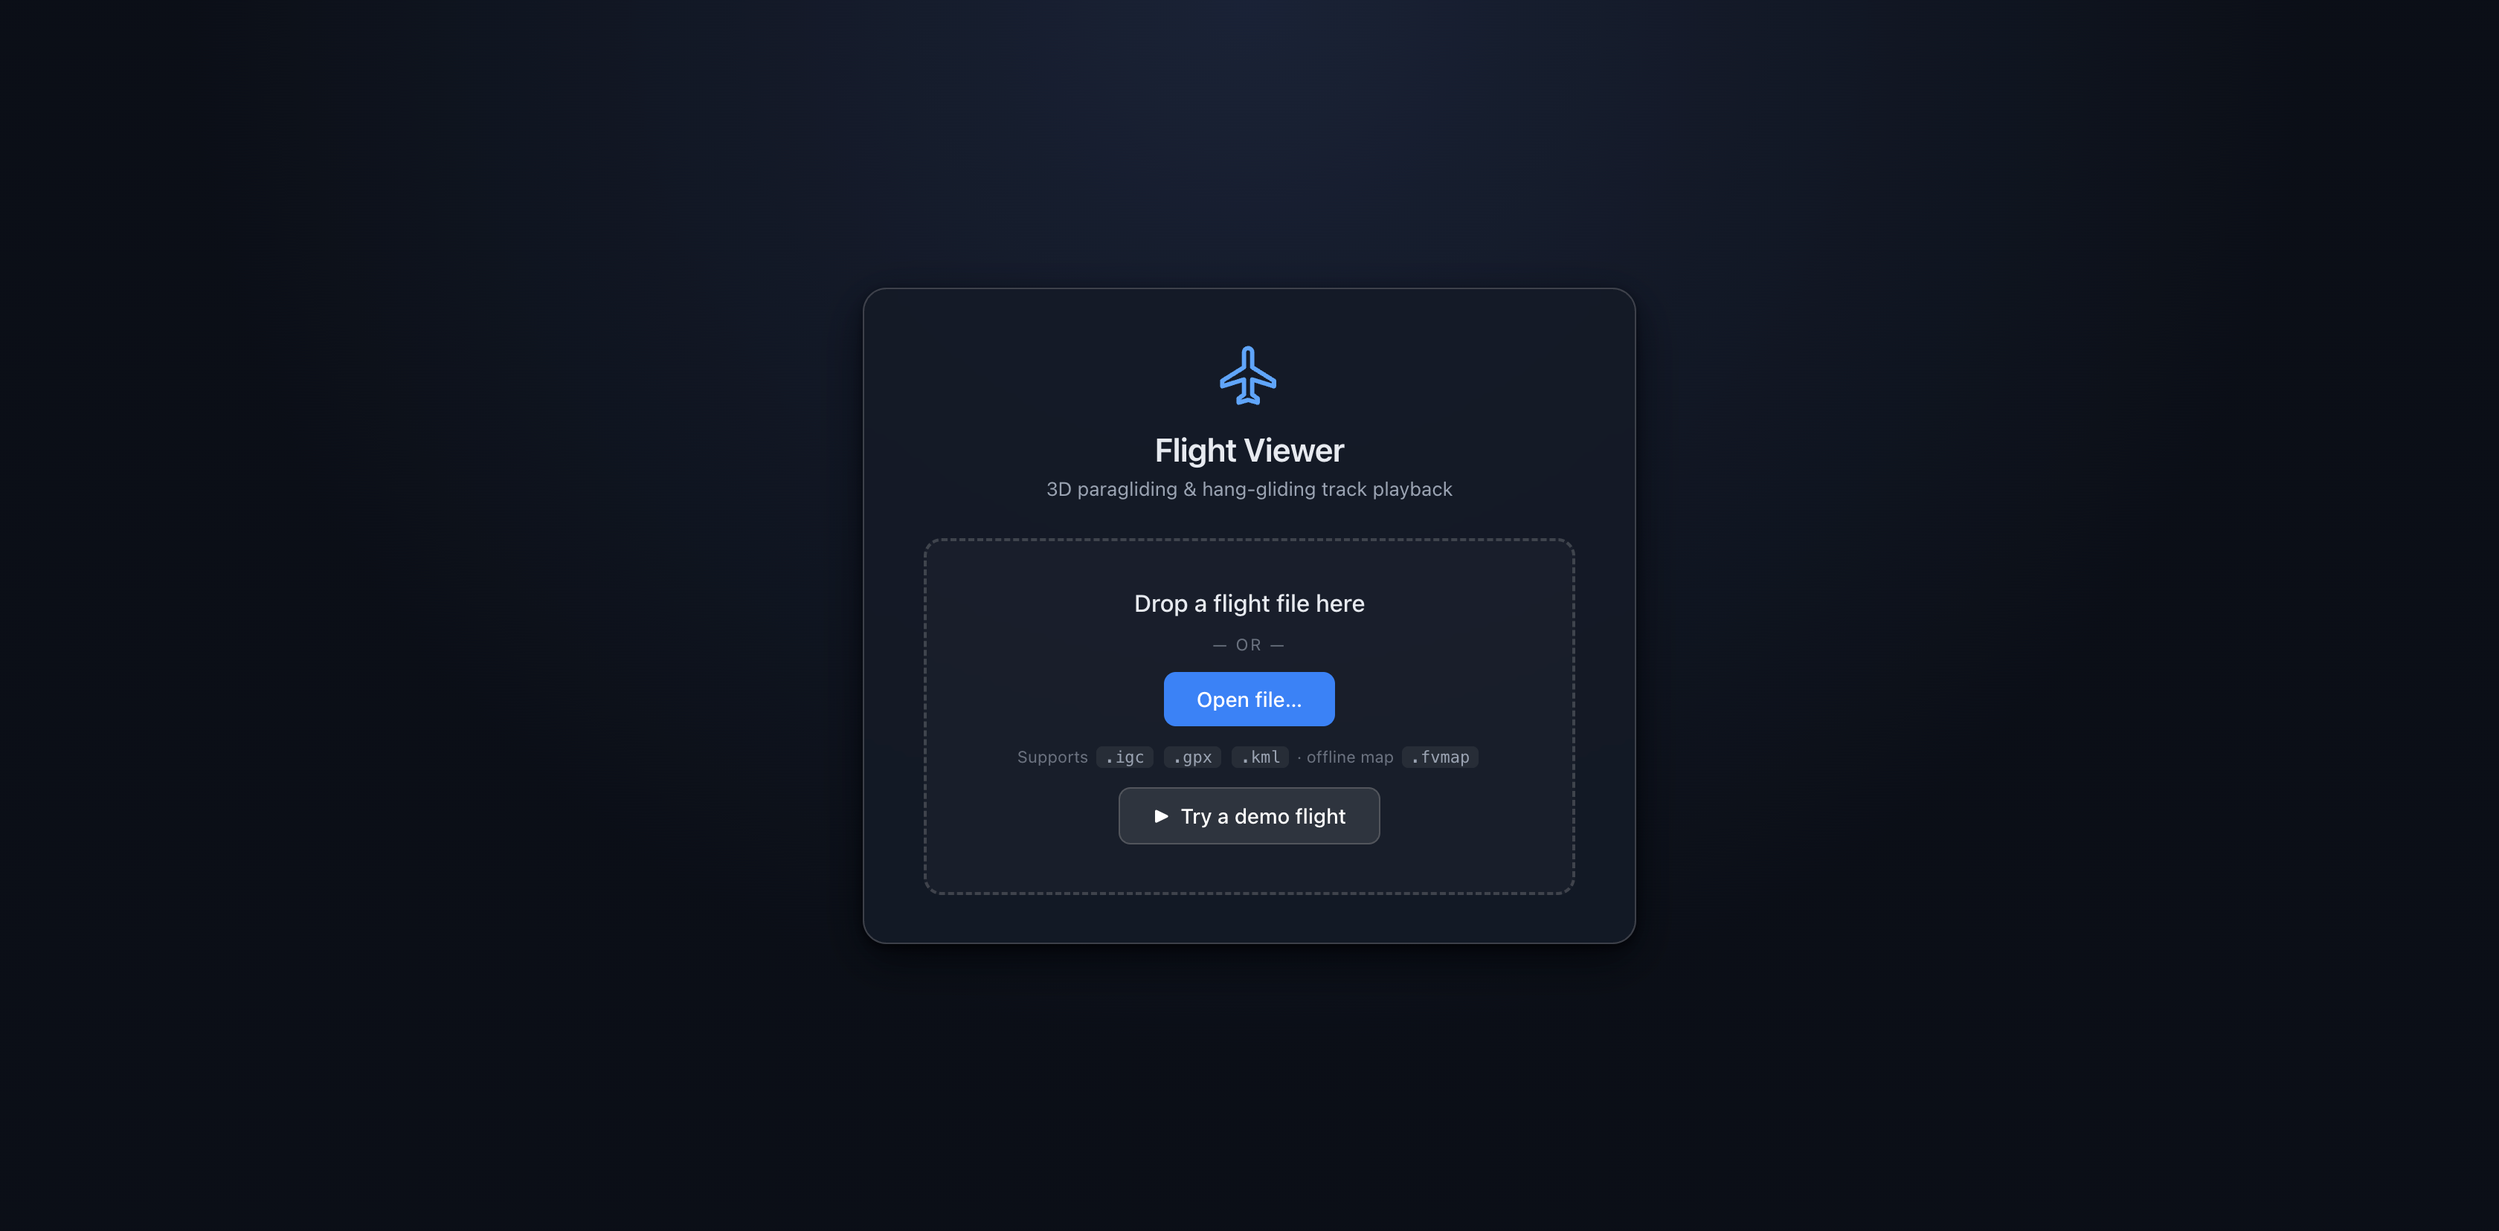
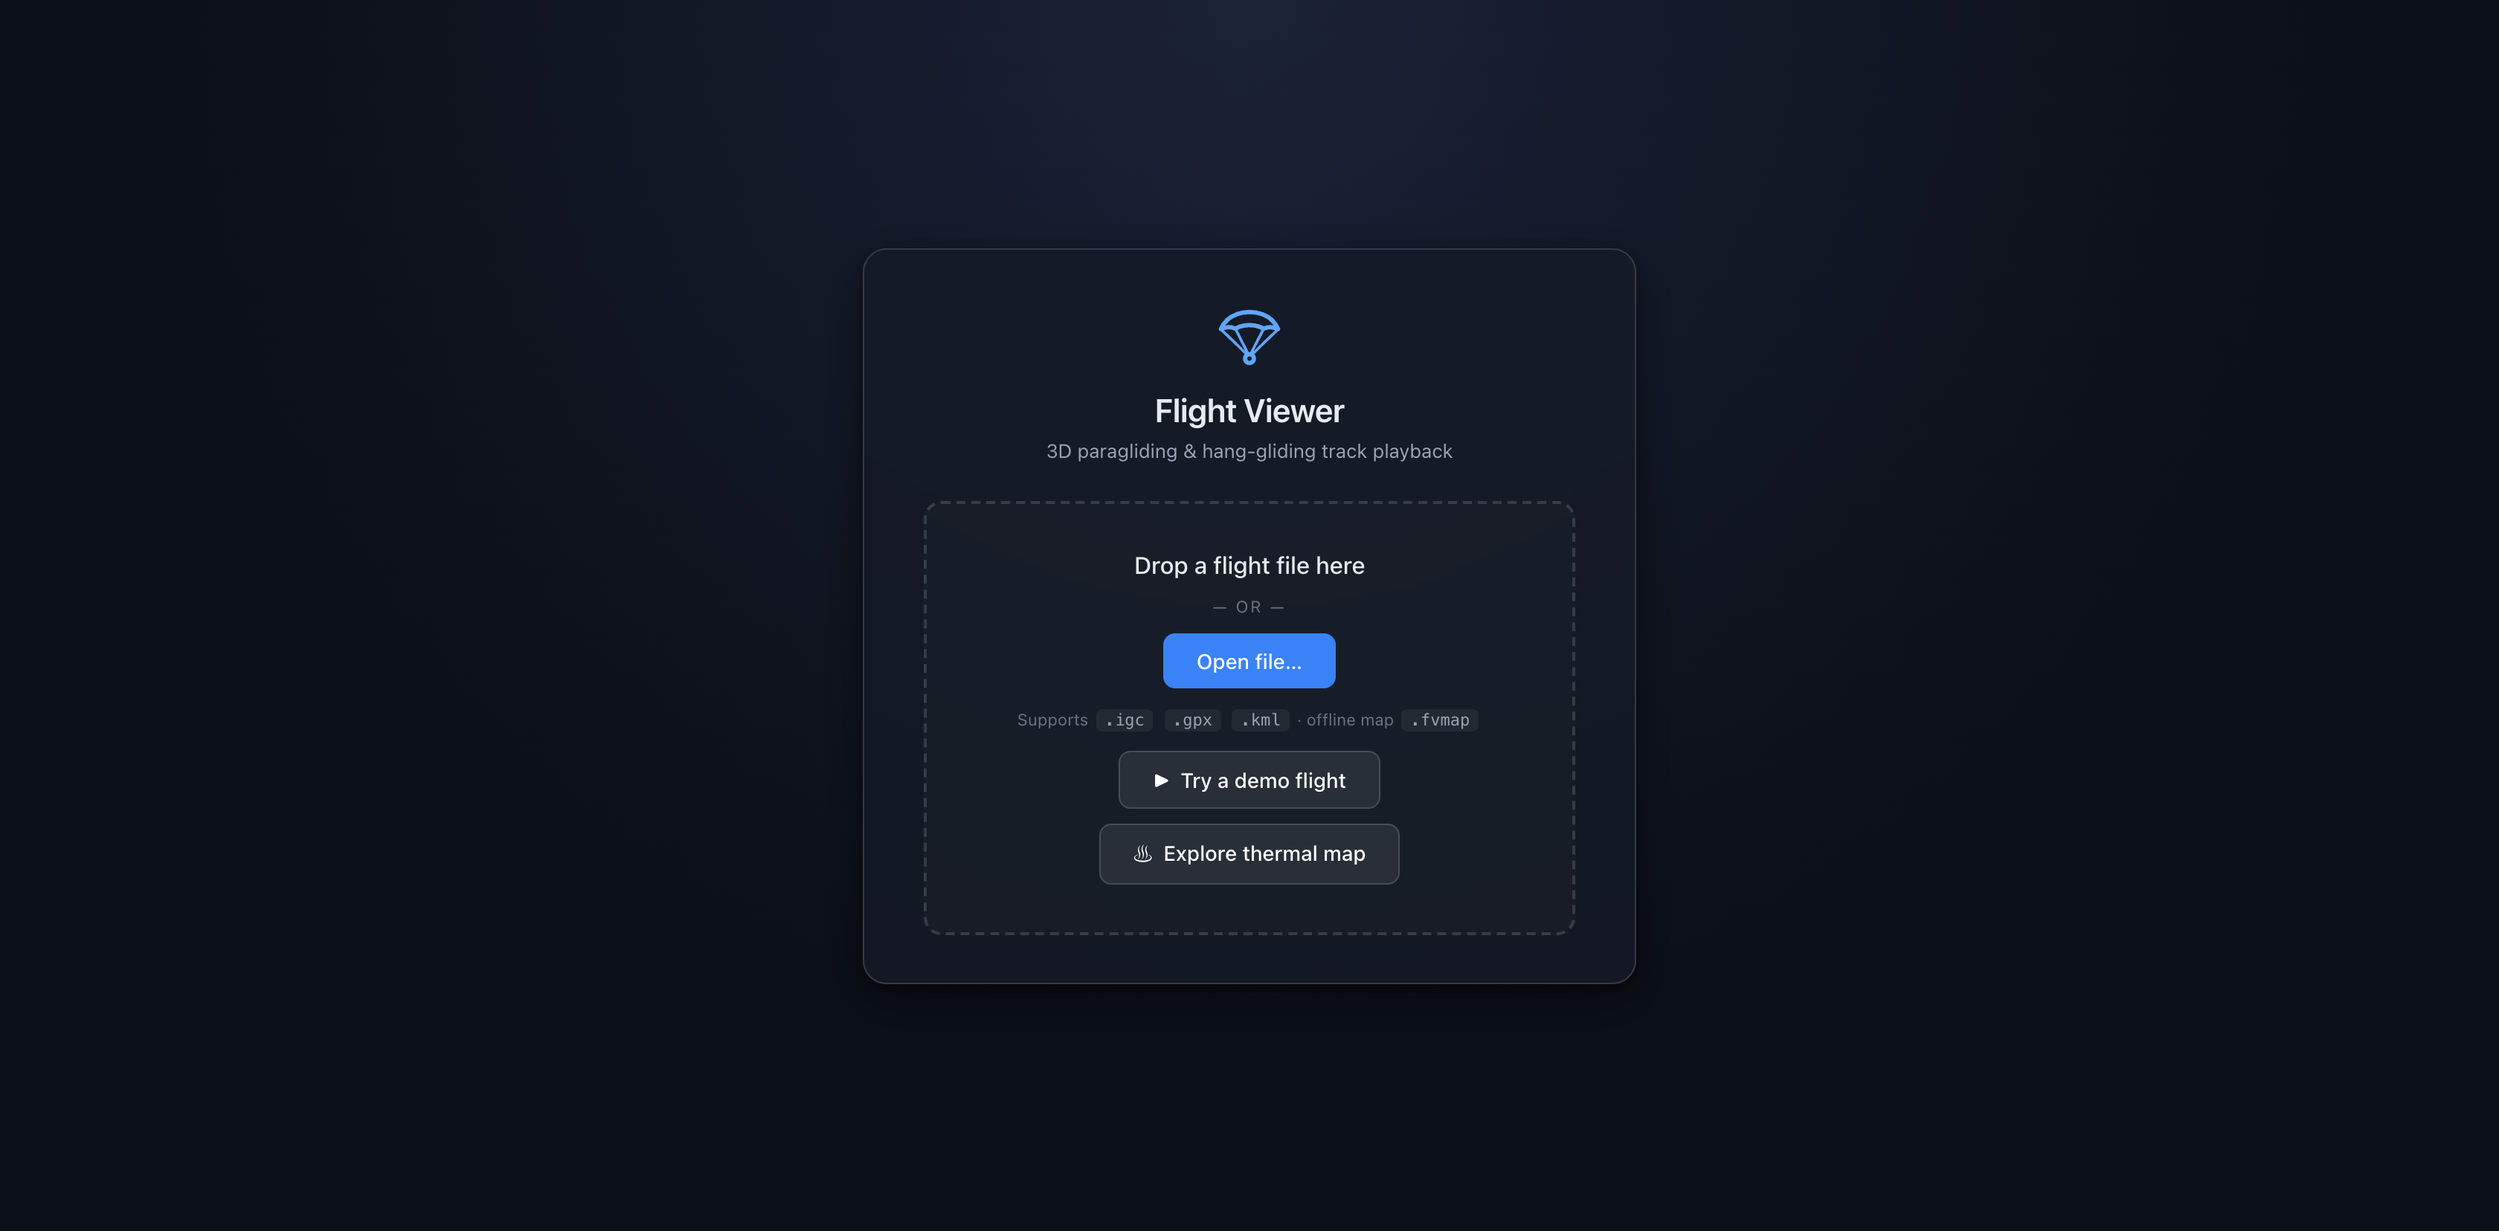
Baro vario by default, chart select button, legend on the right, new screenshots
- Vario source is its own setting (Basics), defaulting to baro -- the
  standard for a vario; GPS selectable, baro-less logs fall back as before.
  It no longer follows the altitude source.
- Chart header gets a select button that arms one range drag (mouse or
  touch); Shift+drag still works and plain drag keeps seeking.
- The colour legend moves to the right edge under the map controls; on the
  left it was covered by the stats panel.
- README screenshots retaken with the current UI.

diff --git a/flight_viewer.html b/flight_viewer.html
@@ -235,11 +235,14 @@
 
   /* Live HUD -- default top-right, clear of the map-control column
      (~48px wide) so nav/fullscreen/follow buttons stay reachable. */
-  /* Vario colour key on the left edge: purely informative, never
-     interactive, so it can sit over the map without blocking drags. */
+  /* Vario colour key on the right edge, in the free strip under the map
+     controls (the left edge belongs to the stats panel, which covered
+     it). Purely informative, never interactive, so it can sit over the
+     map without blocking drags. */
   #varioLegend {
-    position: absolute; left: 12px; top: 50%; transform: translateY(-50%);
-    width: 66px; height: 168px; z-index: 12; pointer-events: none;
+    position: absolute; right: 6px; top: max(50%, 392px);
+    transform: translateY(-50%);
+    width: 54px; height: 168px; z-index: 12; pointer-events: none;
   }
   #varioLegend.hidden, body.noTrack #varioLegend { display: none; }
   @media (max-height: 460px) { #varioLegend { display: none; } }
@@ -428,6 +431,8 @@
     font-size: 11px; color: var(--fg); font-variant-numeric: tabular-nums;
   }
   #chartSel.hidden { display: none; }
+  #chartSelBtn.active { background: var(--accent); color: #fff; }
+  #chart.selMode { cursor: col-resize; }
   #chartSelText { flex: 1; min-width: 0; }
   #chartSel .btn-small { padding: 2px 8px; font-size: 10px; }
   #chartCursor {
@@ -1222,6 +1227,15 @@
           </div>
         </div>
         <div class="row">
+          <span class="lbl" title="Which altitude the climb / sink rate is computed from (HUD vario, track colours, chart, thermal stats). Baro is the standard for a vario: a pressure sensor resolves a few centimetres and reacts at once, while GPS altitude wanders by several metres. A log without pressure data uses GPS automatically. Independent of the Altitude source above, which only sets the height the track is drawn at.">Vario source</span>
+          <div class="ctl">
+            <div class="toggle" id="varioSrc">
+              <button data-v="baro">Baro</button>
+              <button data-v="gps">GPS</button>
+            </div>
+          </div>
+        </div>
+        <div class="row">
           <span class="lbl">Basemap</span>
           <div class="ctl">
             <div class="toggle" id="base">
@@ -1544,7 +1558,7 @@
           </div>
         </div>
         <div class="row">
-          <span class="lbl" title="Small colour key on the left edge of the map showing which climb / sink rate each track colour stands for. Included in recordings.">Colour legend</span>
+          <span class="lbl" title="Small colour key on the right edge of the map showing which climb / sink rate each track colour stands for. Included in recordings.">Colour legend</span>
           <div class="ctl"><input type="checkbox" id="legendCb" checked></div>
         </div>
         <div class="row">
@@ -1829,6 +1843,9 @@
           <button data-v="vario">Vario</button>
           <button data-v="speed">Speed</button>
         </div>
+        <button id="chartSelBtn" class="iconbtn" title="Select a range: click, then drag across the chart (or Shift + drag any time)" aria-label="Select a range on the chart" aria-pressed="false">
+          <svg viewBox="0 0 24 24" width="15" height="15" fill="none" stroke="currentColor" stroke-width="2" stroke-linecap="round" stroke-linejoin="round" style="display:block"><path d="M5 4v16M19 4v16"/><path d="M9 12h6M9 12l2-2M9 12l2 2M15 12l-2-2M15 12l-2 2"/></svg>
+        </button>
         <button id="closeChart" class="iconbtn" title="Close chart" aria-label="Close chart">&times;</button>
       </div>
       <div id="chart"></div>
@@ -1983,7 +2000,7 @@
       <tr><td><kbd>[</kbd> / <kbd>]</kbd></td><td>Set A-B loop start / end</td></tr>
       <tr><td><kbd>\</kbd></td><td>Clear A-B loop</td></tr>
       <tr><td><kbd>Wheel</kbd></td><td>On the chart: zoom time axis (dbl-click resets)</td></tr>
-      <tr><td><kbd>Shift</kbd> + drag</td><td>On the chart: select a range (stats, loop, zoom)</td></tr>
+      <tr><td><kbd>Shift</kbd> + drag</td><td>On the chart: select a range (stats, loop, zoom) &mdash; or use the chart's select button, also on touch</td></tr>
       <tr><td><kbd>S</kbd></td><td>Settings panel</td></tr>
       <tr><td><kbd>I</kbd></td><td>Flight statistics</td></tr>
       <tr><td><kbd>L</kbd></td><td>Live HUD</td></tr>
@@ -2392,12 +2409,15 @@ function deriveSpeeds(arr) {
   }
   applyVarioSource(arr);
 }
-// vz_ms always follows the selected altitude source, so the vario (HUD,
-// chart, track colours, thermal stats) describes the same altitude trace
-// that is drawn. It used to be baro-only: with the track drawn at GPS
-// altitude the two could disagree by up to 1 m/s on phone logs.
+// vz_ms comes from the barometric altitude by default -- what every vario
+// instrument and flight-analysis tool does: a pressure sensor resolves a
+// few centimetres with no lag, while GNSS altitude wanders by metres, so a
+// GPS-derived climb rate is noisier and reads false lift / sink. "Vario
+// source" in the settings can switch it to GPS; a log with no usable baro
+// channel has already had it filled from GPS (deriveSpeeds), so the
+// default works there too.
 function applyVarioSource(arr) {
-  const g = state.altSrc === 'gps';
+  const g = state.varioSrc === 'gps';
   for (let i = 0; i < arr.length; i++) arr[i].vz_ms = g ? arr[i].vz_g : arr[i].vz_b;
 }
 
@@ -2958,7 +2978,7 @@ function parseFlightFile(text, filename) {
 // corrupt / stale blob can never wedge the app.
 const PREFS_STORAGE_KEY = 'fv_prefs_v1';
 const PERSIST_KEYS = [
-  'altSrc', 'base', 'mapLabels', 'units', 'colorMode', 'varioMaxUp', 'varioMaxDown', 'varioGlide', 'showLegend', 'lowAglM',
+  'altSrc', 'varioSrc', 'base', 'mapLabels', 'units', 'colorMode', 'varioMaxUp', 'varioMaxDown', 'varioGlide', 'showLegend', 'lowAglM',
   'exag', 'trackWidth', 'tube3d', 'smoothSubdiv', 'smoothTension',
   'kmlRateHz', 'spiralReconOn', 'spiralMode', 'spiralTurnsPerSec',
   'spiralThreshold', 'trailFadeSec', 'pilotShape', 'pilotSize', 'speed', 'autoSpeed',
@@ -3003,6 +3023,7 @@ let renderDirty = true;
 
 const rawState = {
   altSrc: 'gps',
+  varioSrc: 'baro',     // 'baro' | 'gps' -- altitude the vario is derived from
   base: 'sat',
   mapLabels: true,      // place-name labels (cities, peaks, lakes) on the map
   units: 'metric',
@@ -3288,7 +3309,7 @@ function updateLegend() {
   _legendSig = sig;
   cv.classList.toggle('hidden', !vis);
   if (!vis) return;
-  const W = 66, H = 168;
+  const W = 54, H = 168;
   cv.width = Math.round(W * dpr); cv.height = Math.round(H * dpr);
   const c = cv.getContext('2d');
   c.setTransform(dpr, 0, 0, dpr, 0, 0);
@@ -3302,7 +3323,7 @@ function updateLegend() {
   c.textAlign = 'center'; c.textBaseline = 'middle';
   c.fillText(U.vzLabel().toUpperCase(), W / 2, 11);
   const up = state.varioMaxUp, dn = state.varioMaxDown;
-  const top = 24, bot = H - 12, bx = 9, bw = 9;
+  const top = 24, bot = H - 12, bx = 7, bw = 8;
   const yOf = v => top + (up - v) / (up + dn) * (bot - top);
   for (let y = top; y < bot; y++) {
     const k = varioColor(up - (y - top + 0.5) / (bot - top) * (up + dn));
@@ -3328,7 +3349,7 @@ function updateLegend() {
     c.fillStyle = 'rgba(255,255,255,0.55)';
     c.fillRect(bx + bw, Math.round(y) - 0.5, 4, 1);
     c.fillStyle = '#e6e9ef';
-    c.fillText(t, bx + bw + 7, Math.min(H - 7, Math.max(top, y)));
+    c.fillText(t, bx + bw + 6, Math.min(H - 7, Math.max(top, y)));
   }
 }
 
@@ -7531,14 +7552,20 @@ function setupAppUi() {
   }
   initToggle('altSrc', 'altSrc', () => {
     pathDataCache = null; spiralCache = null;
-    // The vario follows the altitude source: re-derive it, then everything
-    // computed from it (thermal gains, stats, glides, timeline colours).
-    applyVarioSource(fixes);
-    for (const tr of cmpTracks) applyVarioSource(tr.fixes);
-    cmpRev++;
+    // Thermal gains, glides and the stats are measured on this altitude.
     analyzeFlight();
     buildProgressTicks();
     refreshChart(); autoAlignGround(); renderStatsPanel();
+  });
+  initToggle('varioSrc', 'varioSrc', () => {
+    // Re-derive the vario, then everything computed from it (track and
+    // timeline colours, max climb / sink, the vario chart).
+    applyVarioSource(fixes);
+    for (const tr of cmpTracks) applyVarioSource(tr.fixes);
+    pathDataCache = null; cmpRev++;
+    analyzeFlight();
+    buildProgressTicks();
+    refreshChart(); renderStatsPanel();
   });
   initToggle('units',  'units',  () => {
     refreshChart();
@@ -8516,7 +8543,7 @@ function setupAppUi() {
       localStorage.removeItem('fv_secs_v1');
     } catch (_) {}
     const toggleKeys = [
-      ['altSrc', 'altSrc'], ['base', 'base'], ['units', 'units'],
+      ['altSrc', 'altSrc'], ['varioSrc', 'varioSrc'], ['base', 'base'], ['units', 'units'],
       ['colorMode', 'colorMode'], ['pilotShape', 'pilotShape'],
       ['camStyle', 'camStyle'], ['chartMetric', 'chartMetric'],
       ['cmpAlign', 'cmpAlign'],
@@ -9340,11 +9367,38 @@ function setupAppUi() {
     drawChart(); syncChartCursor();
   };
   let chartSelDrag = null;     // anchor x (shifted ms) while shift-dragging
+  // Range-select mode: armed by the header button for ONE drag (mouse or
+  // touch), then it switches itself off -- so ordinary click / drag keeps
+  // meaning "seek" and nothing has to be remembered or undone.
+  let chartSelMode = false;
+  const chartSelBtn = document.getElementById('chartSelBtn');
+  const setChartSelMode = on => {
+    chartSelMode = !!on;
+    chartSelBtn.classList.toggle('active', chartSelMode);
+    chartSelBtn.setAttribute('aria-pressed', chartSelMode ? 'true' : 'false');
+    chartEl.classList.toggle('selMode', chartSelMode);
+  };
+  for (const ev of ['mousedown', 'touchstart']) {
+    chartSelBtn.addEventListener(ev, e => e.stopPropagation());   // not a panel drag
+  }
+  chartSelBtn.onclick = () => {
+    if (N < 2) return;
+    setChartSelMode(!chartSelMode);
+    if (chartSelMode) showStatus('Drag across the chart to select a range');
+  };
+  const finishChartSel = () => {
+    chartSelDrag = null;
+    setChartSelMode(false);
+    // A stray click (no real drag) clears instead of selecting.
+    if (fvChart.sel && fvChart.sel[1] - fvChart.sel[0] < 3000) fvChart.sel = null;
+    renderChartSel();
+    drawChart();
+  };
 
   let chartScrub = false, chartScrubWasPlaying = false;
   chartEl.addEventListener('mousedown', (e) => {
     if (e.button !== 0 || ghostMouse()) return;
-    if (e.shiftKey && N > 1) {
+    if ((e.shiftKey || chartSelMode) && N > 1) {
       const x = chartXAt(e.clientX);
       if (isFinite(x)) { chartSelDrag = x; fvChart.sel = null; e.preventDefault(); }
       return;
@@ -9367,13 +9421,9 @@ function setupAppUi() {
   });
   window.addEventListener('mouseup', () => {
     if (chartSelDrag != null) {
-      chartSelDrag = null;
       chartSelSkipClick = true;
       setTimeout(() => { chartSelSkipClick = false; }, 0);
-      // A stray shift-click (no real drag) clears instead of selecting.
-      if (fvChart.sel && fvChart.sel[1] - fvChart.sel[0] < 3000) fvChart.sel = null;
-      renderChartSel();
-      drawChart();
+      finishChartSel();
       return;
     }
     if (!chartScrub) return;
@@ -9388,12 +9438,26 @@ function setupAppUi() {
     chartLastTouchTs = Date.now();
     if (e.touches.length === 1) {
       const t = e.touches[0];
+      if (chartSelMode && N > 1) {
+        const x = chartXAt(t.clientX);
+        if (isFinite(x)) { chartSelDrag = x; fvChart.sel = null; chartTouchStart = null; }
+        return;
+      }
       chartTouchStart = { x: t.clientX, y: t.clientY, time: Date.now() };
       chartTouchScrub = false;
     }
   }, { passive: true });
 
   chartEl.addEventListener('touchmove', (e) => {
+    if (chartSelDrag != null && e.touches.length === 1) {
+      const x = chartXAt(e.touches[0].clientX);
+      if (isFinite(x)) {
+        fvChart.sel = [Math.min(chartSelDrag, x), Math.max(chartSelDrag, x)];
+        scheduleChartDraw();
+      }
+      if (e.cancelable) e.preventDefault();
+      return;
+    }
     if (!chartTouchStart || e.touches.length !== 1) return;
     const t = e.touches[0];
     const dx = t.clientX - chartTouchStart.x;
@@ -9411,6 +9475,7 @@ function setupAppUi() {
 
   chartEl.addEventListener('touchend', (e) => {
     chartLastTouchTs = Date.now();
+    if (chartSelDrag != null) { finishChartSel(); return; }
     if (!chartTouchStart) return;
     const t = e.changedTouches[0];
     const dx = t.clientX - chartTouchStart.x;

diff --git a/README.md b/README.md
@@ -109,12 +109,13 @@ cached them or have been opened online at least once.
   and teal → sky blue → **blue = sinking** → violet. Adjustable max climb
   / max sink / normal glide (defaults 2.5 / 3 / 1 m/s; set normal glide to
   0 for a zero-centred scale), or **single colour** (default pure green).
-- The **vario follows the selected altitude source** (GPS or baro), so the
-  colours, the HUD number, the chart and the thermal stats all describe
-  the altitude trace that is actually drawn. Logs with no usable baro
-  altitude (a constant 0 from loggers without a pressure sensor) fall back
-  to GPS automatically, and vice versa.
-- **Colour legend**: a small key on the left edge of the map shows which
+- The **vario is computed from barometric altitude** by default, as vario
+  instruments and analysis tools do (a pressure sensor resolves
+  centimetres with no lag; GPS altitude wanders by metres). Settings →
+  Basics → **Vario source** switches it to GPS. Logs with no usable baro
+  altitude (a constant 0 from loggers without a pressure sensor) use GPS
+  automatically, and vice versa.
+- **Colour legend**: a small key on the right edge of the map shows which
   climb / sink rate each colour stands for (settings → Trail & pilot;
   included in composited recordings).
 - Adjustable pixel width (`Track width`) and optional metres-wide 3-D
@@ -253,8 +254,10 @@ cached them or have been opened online at least once.
   the chart shows.
 - Draggable header, resizable corner (grip shown bottom-right).
 
-- **Select a range**: Shift + drag on the chart marks a stretch of the
-  flight and shows its duration, altitude change, mean climb, straight
+- **Select a range**: click the select button in the chart header and
+  drag across the chart (mouse or touch; it arms a single drag, so normal
+  click / drag keeps seeking), or Shift + drag at any time. This marks a
+  stretch of the flight and shows its duration, altitude change, mean climb, straight
   and flown distance, glide ratio and speed. **Loop** turns it into the
   A-B loop (which is also what track export uses), **Zoom** fits the
   chart to it.
@@ -460,7 +463,7 @@ cached them or have been opened online at least once.
 
 ### Settings drawer
 Collapsible sections (open/closed state remembered):
-- **Basics** — units, altitude source (GPS / baro), basemap, map labels,
+- **Basics** — units, altitude source (GPS / baro), vario source, basemap, map labels,
   swap L/R mouse (hidden on touch-only devices).
 - **Camera** — follow pilot, camera style (Center / Chase / Orbit /
   Director) with orbit speed / resume, Takeoff / Fit track shortcuts.
